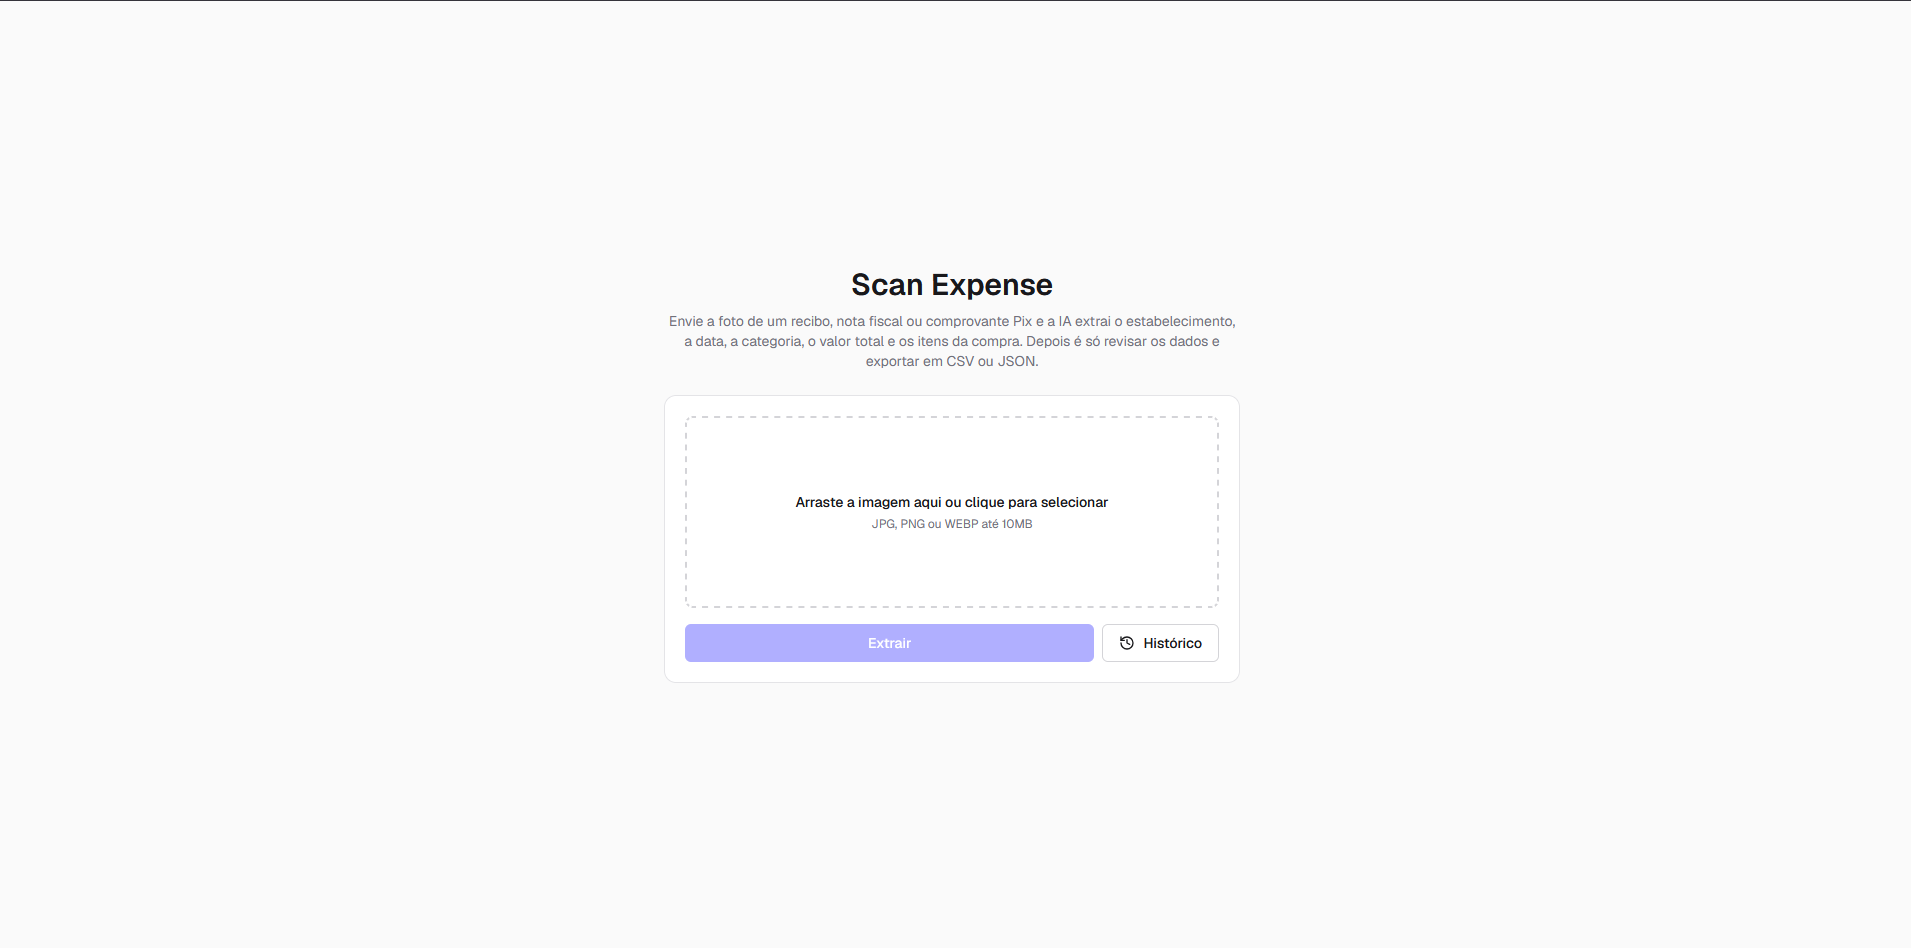
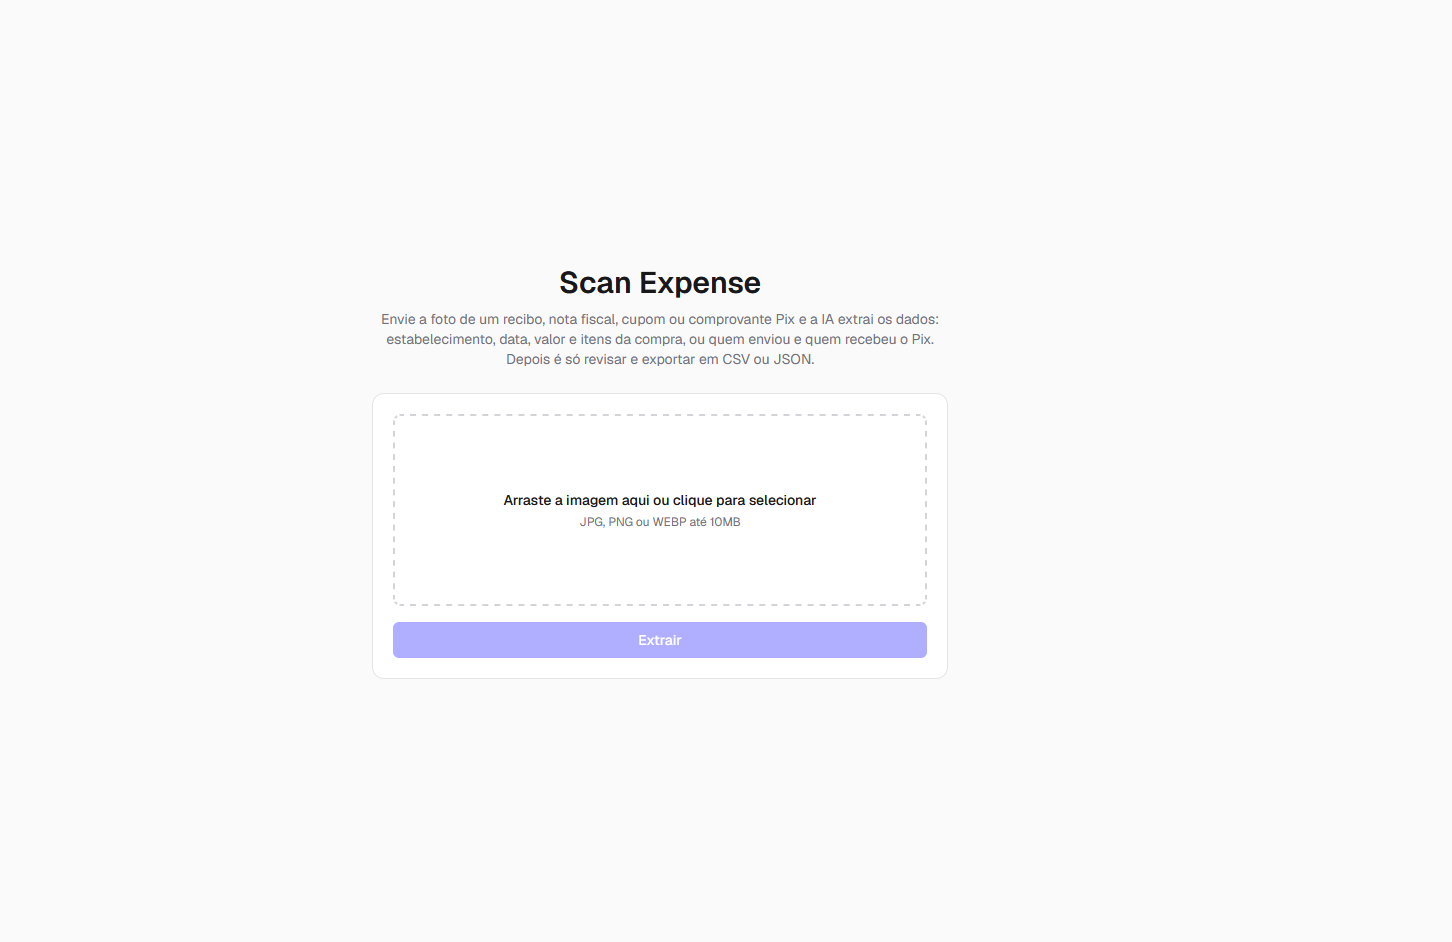
feat: atualiza as imagens do projeto ScanExpense

diff --git a/data/projects.ts b/data/projects.ts
@@ -151,7 +151,10 @@ const projectsData: Project[] = [
             '/projetcs/scan-expense/01-tela-inicial.png',
             '/projetcs/scan-expense/02-imagem-enviada.png',
             '/projetcs/scan-expense/03-dados-extraidos.png',
-            '/projetcs/scan-expense/04-historico.png',
+            '/projetcs/scan-expense/04-editar-item.png',
+            '/projetcs/scan-expense/05-historico.png',
+            '/projetcs/scan-expense/06-exportar-texto.png',
+            '/projetcs/scan-expense/07-exportar-json.png',
         ],
         imagesPosition: 'top',
         description: 'ScanExpense é um extrator inteligente de despesas: a partir da foto de um recibo, nota fiscal ou comprovante Pix, uma IA com visão (Google Gemini, via Vercel AI SDK) identifica estabelecimento, data, categoria, valor total e itens da compra. O projeto foi planejado a partir de um brain-dump em Markdown, transformado em um PRD com fases e tarefas progressivas, e implementado com apoio do Claude Code, usando Zod para validar a saída da IA e Zustand para o histórico local.',
